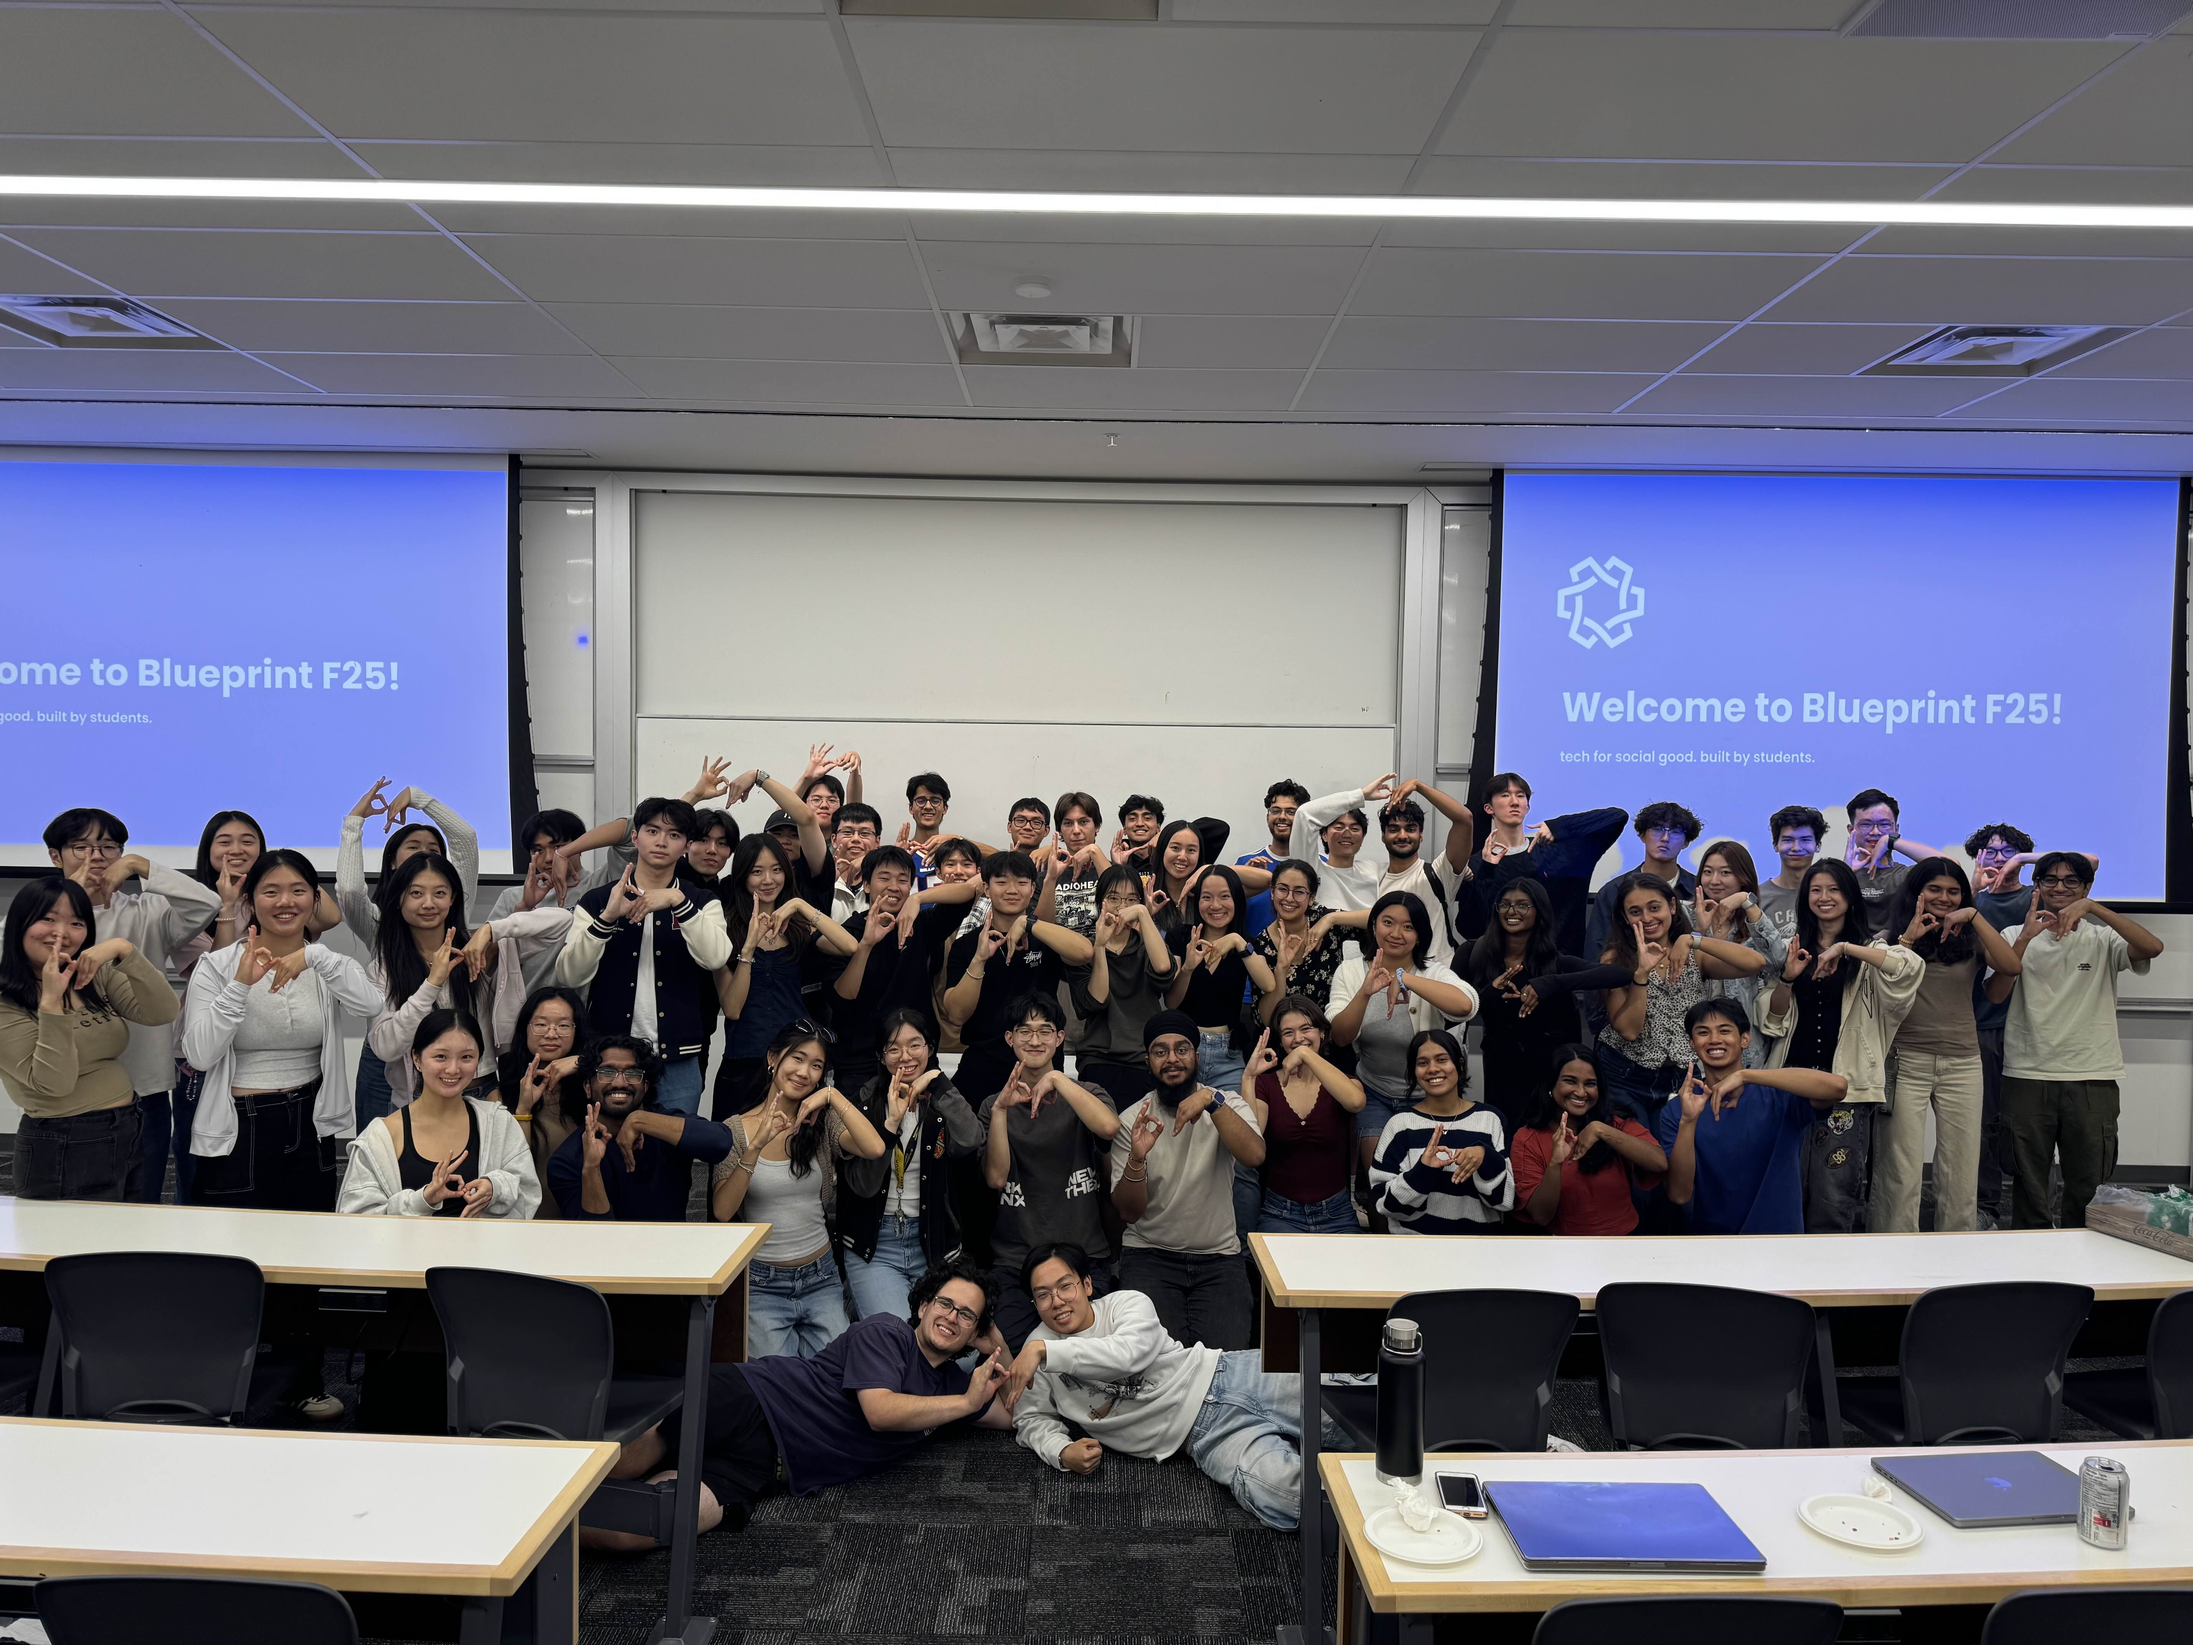
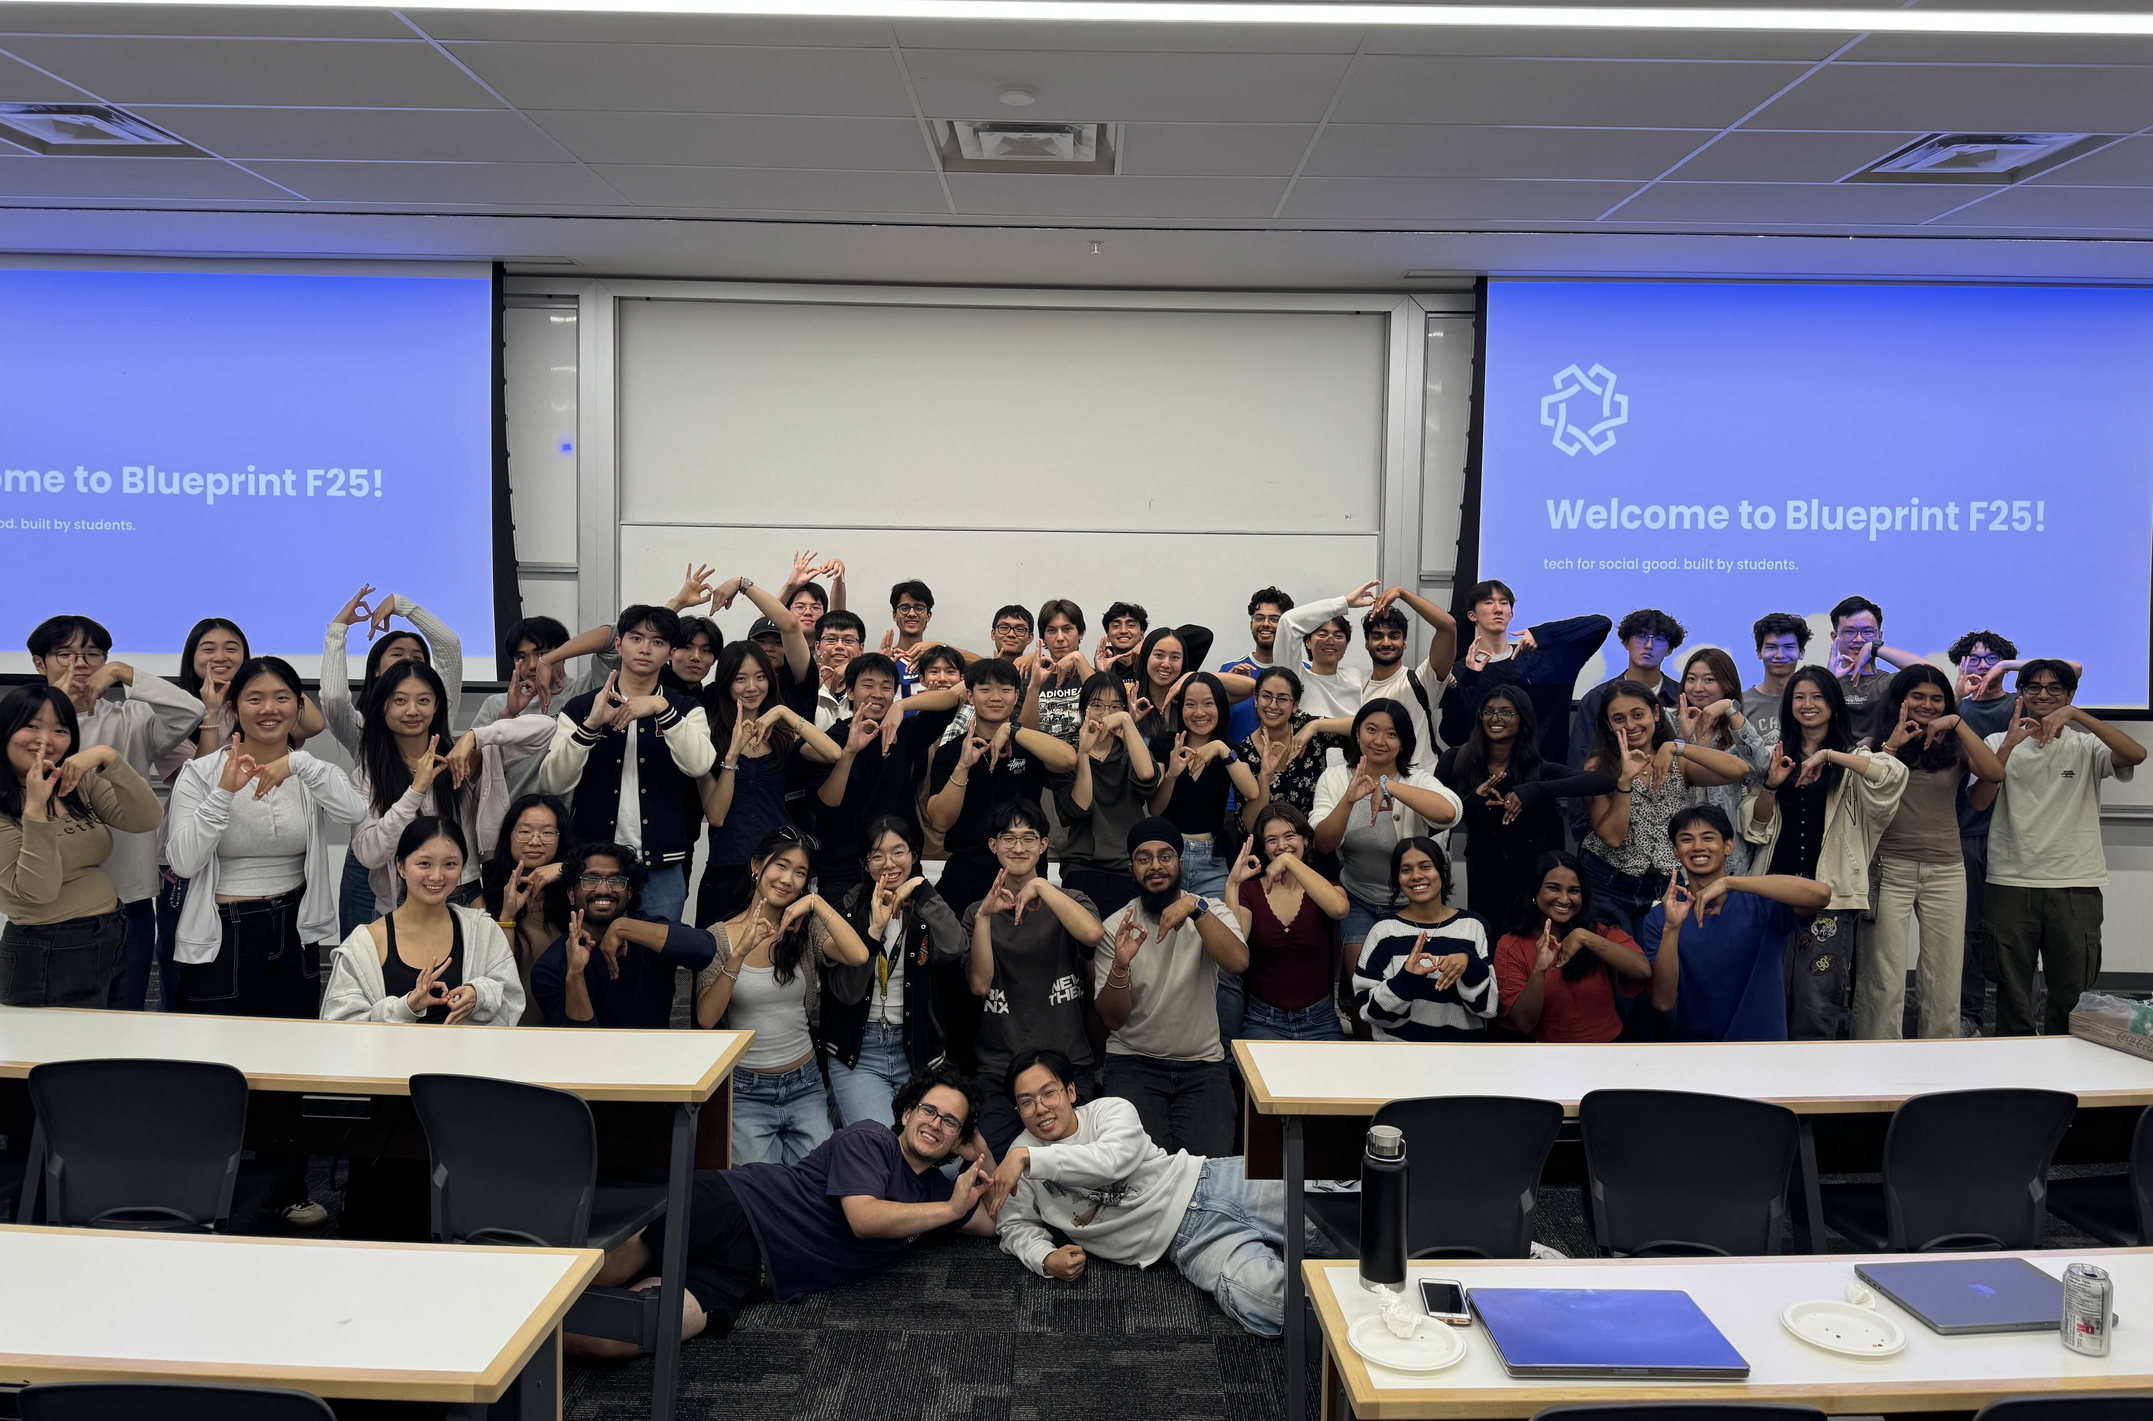
cropped team image and removed figma sponsor

diff --git a/pages/about.tsx b/pages/about.tsx
@@ -223,11 +223,6 @@ const About: NextPage = () => {
             alt="Verkada"
           />
           <img className="h-32 object-cover" src="/about/ramp.png" alt="Ramp" />
-          <img
-            className="h-32 object-contain"
-            src="/about/figma.png"
-            alt="Figma"
-          />
         </div>
       </section>
       {/* Interested in the work we do? */}
